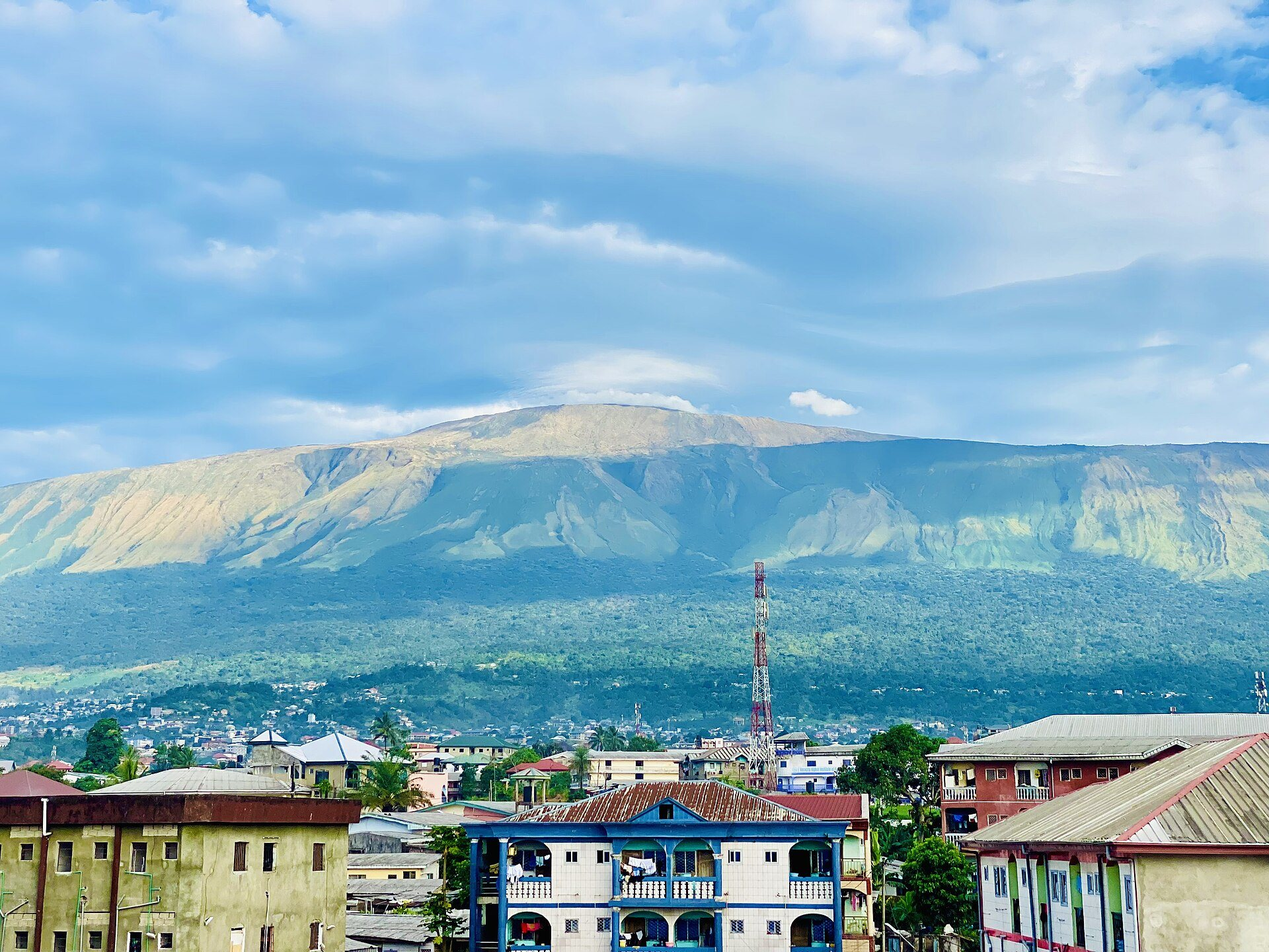
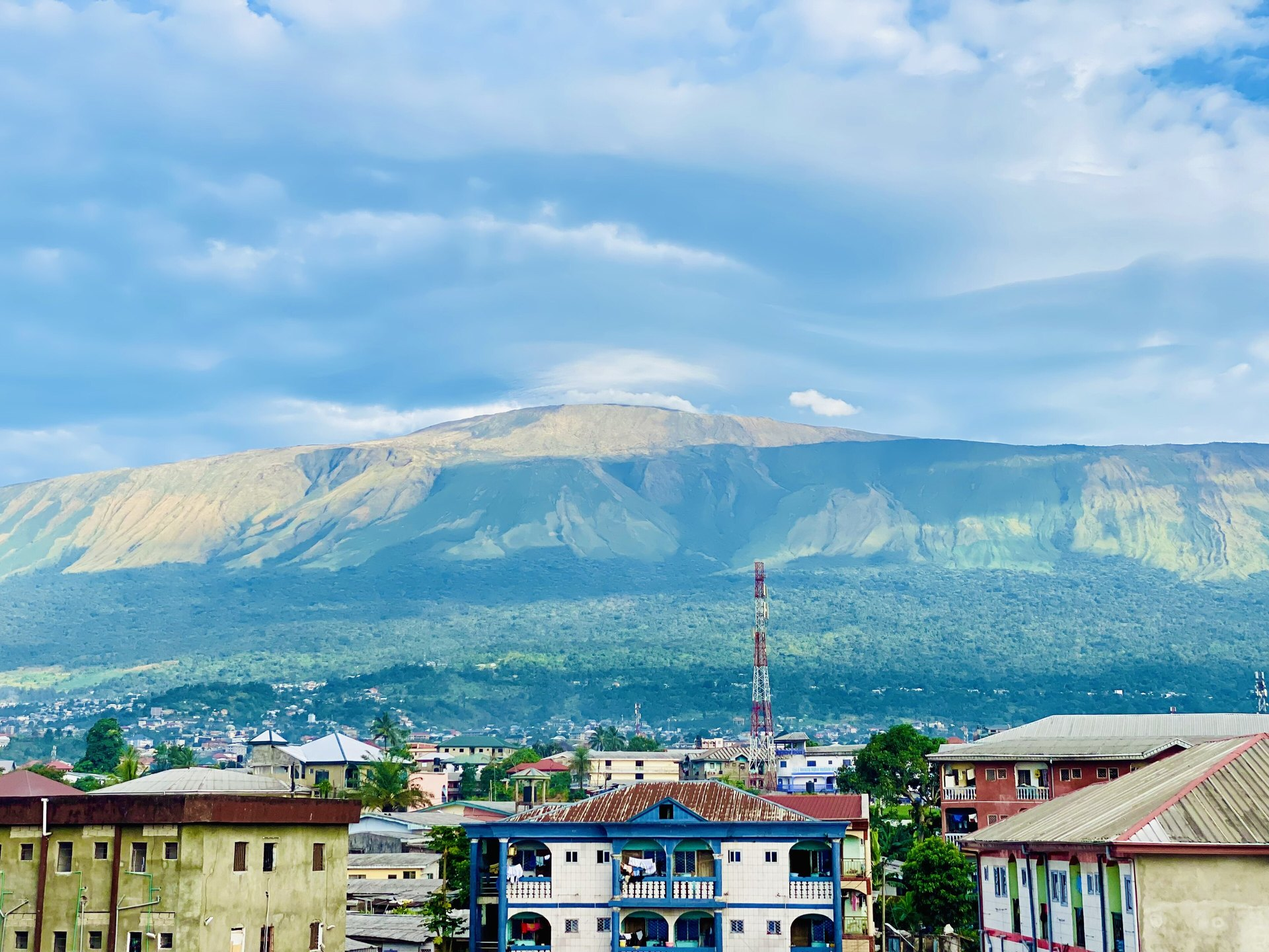
Serve the Cameroon photographs at their real 3840px resolution
Our copies had been downscaled to 1920px even though the Commons originals are
4032-4608px wide. The 3840px masters now live beside the fallbacks, and the
hero picks between 1920 and 3840 WebP by viewport so phones stay light while
large screens get the detail. The staff apps are re-encoded from the same
sources; the service worker version moves so cached shells refresh.

diff --git a/templates/public_home.html b/templates/public_home.html
@@ -165,9 +165,10 @@
         <div id="heroSlides" class="hero-slides" style="background:#0a1628 url('/static/img/cameroon/webp/mount-cameroon-sunny-lqip.webp') center/cover no-repeat;">
             <div class="hero-slide active">
                 <picture>
-                    <source srcset="/static/img/cameroon/webp/mount-cameroon-sunny.webp" type="image/webp">
+                    <source type="image/webp" sizes="100vw"
+                            srcset="/static/img/cameroon/webp/mount-cameroon-sunny-1920.webp 1920w, /static/img/cameroon/webp/mount-cameroon-sunny-3840.webp 3840w">
                     <img src="/static/img/cameroon/mount-cameroon-sunny.jpg" alt="Mount Cameroon rising above the Buea foothills"
-                         width="1920" height="1440" fetchpriority="high" decoding="async">
+                         width="3840" height="2880" fetchpriority="high" decoding="async">
                 </picture>
             </div>
             <div class="hero-slide">
@@ -179,16 +180,18 @@
             </div>
             <div class="hero-slide">
                 <picture>
-                    <source srcset="/static/img/cameroon/webp/mount-cameroon-sunset.webp" type="image/webp">
+                    <source type="image/webp" sizes="100vw"
+                            srcset="/static/img/cameroon/webp/mount-cameroon-sunset-1920.webp 1920w, /static/img/cameroon/webp/mount-cameroon-sunset-3840.webp 3840w">
                     <img src="/static/img/cameroon/mount-cameroon-sunset.jpg" alt="Dusk falling over Mount Cameroon"
-                         width="1920" height="1440" loading="lazy" decoding="async">
+                         width="3840" height="2880" loading="lazy" decoding="async">
                 </picture>
             </div>
             <div class="hero-slide">
                 <picture>
-                    <source srcset="/static/img/cameroon/webp/mount-cameroon-ndongo.webp" type="image/webp">
+                    <source type="image/webp" sizes="100vw"
+                            srcset="/static/img/cameroon/webp/mount-cameroon-ndongo-1920.webp 1920w, /static/img/cameroon/webp/mount-cameroon-ndongo-3840.webp 3840w">
                     <img src="/static/img/cameroon/mount-cameroon-ndongo.jpg" alt="Mount Cameroon seen from Ndongo, above Buea"
-                         width="1920" height="1280" loading="lazy" decoding="async">
+                         width="3840" height="2560" loading="lazy" decoding="async">
                 </picture>
             </div>
         </div>

diff --git a/static/sw.js b/static/sw.js
@@ -8,7 +8,7 @@
      - Offline fallback       : /offline page + cached shell
    ============================================================ */
 
-const VERSION = 'v2.3.12';
+const VERSION = 'v2.3.13';
 const SHELL_CACHE = 'lmv-shell-' + VERSION;
 const PAGES_CACHE = 'lmv-pages-' + VERSION;
 const ASSETS_CACHE = 'lmv-assets-' + VERSION;
